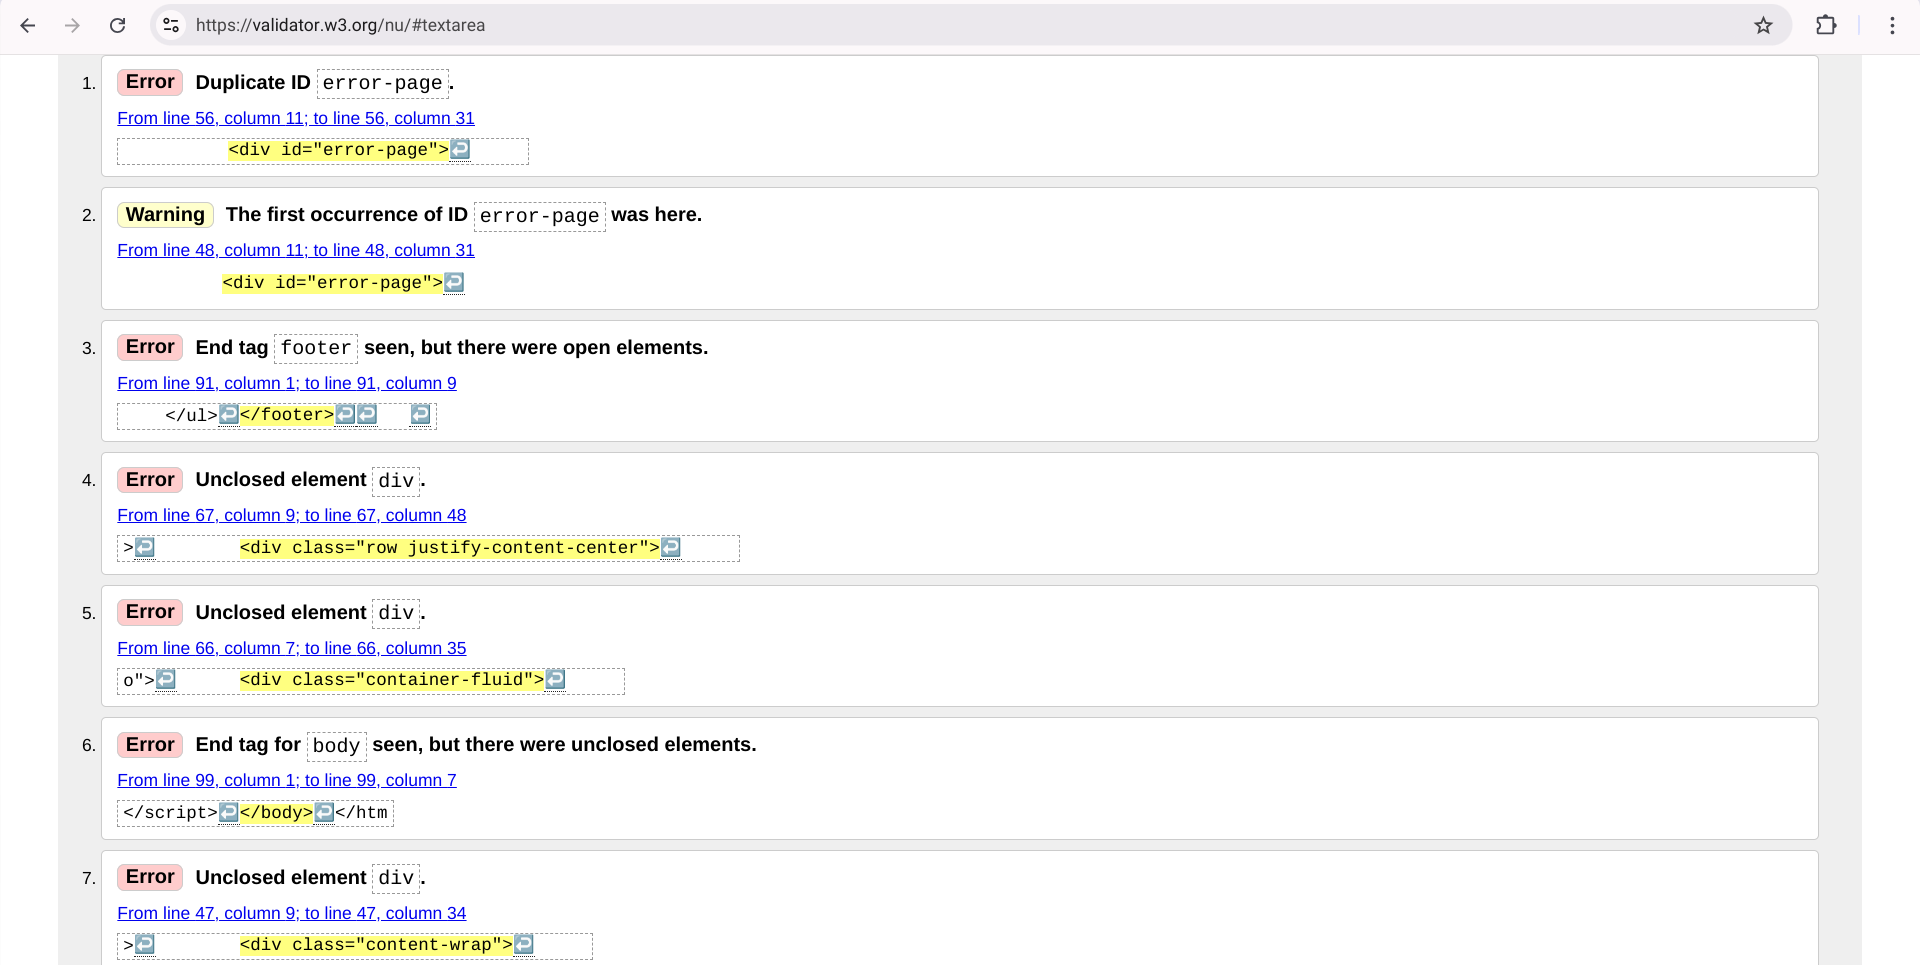
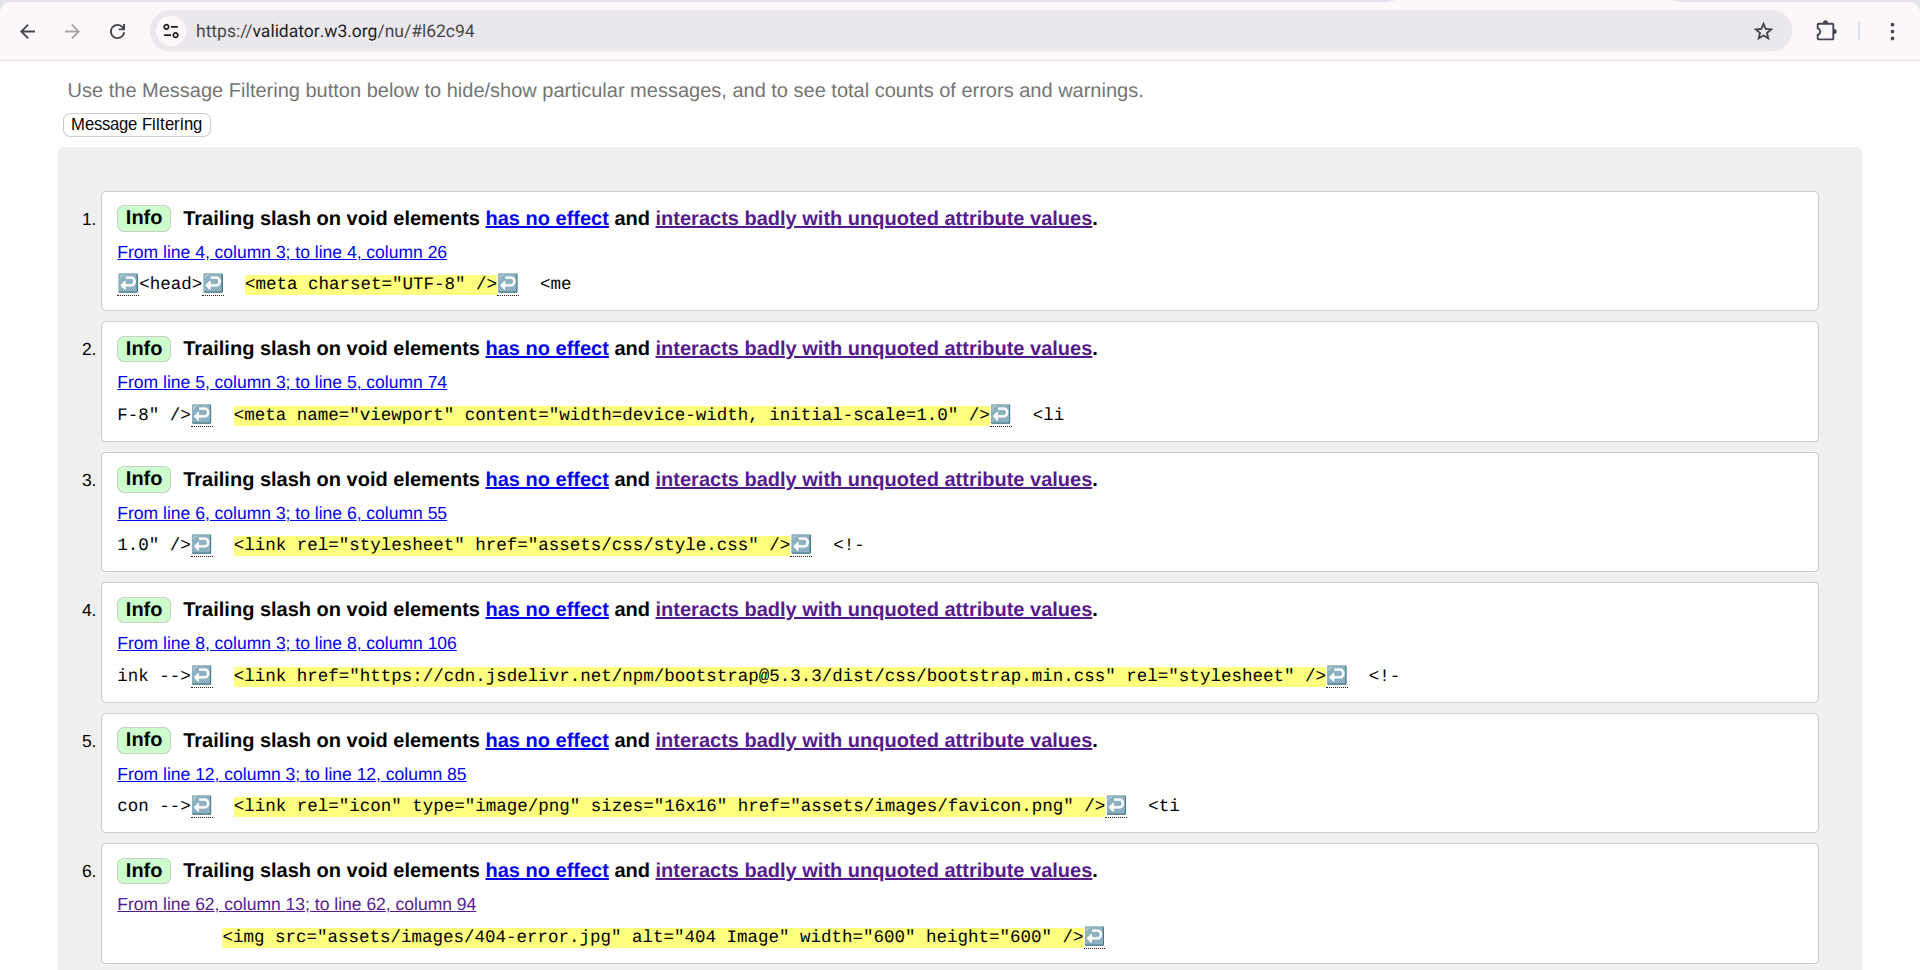
Add 404 page updated validation

Changed region(s): [[0.0312, 0.342, 0.9375, 0.9948], [0.0, 0.0, 0.5938, 0.3109], [0.9062, 0.0, 0.9688, 0.0311]]

diff --git a/404.html b/404.html
@@ -1,15 +1,15 @@
 <!DOCTYPE html>
 <html lang="en">
 <head>
-  <meta charset="UTF-8" />
-  <meta name="viewport" content="width=device-width, initial-scale=1.0" />
-  <link rel="stylesheet" href="assets/css/style.css" />
+  <meta charset="UTF-8">
+  <meta name="viewport" content="width=device-width, initial-scale=1.0">
+  <link rel="stylesheet" href="assets/css/style.css">
   <!-- Bootstrap link -->
-  <link href="https://cdn.jsdelivr.net/npm/bootstrap@5.3.3/dist/css/bootstrap.min.css" rel="stylesheet" />
+  <link href="https://cdn.jsdelivr.net/npm/bootstrap@5.3.3/dist/css/bootstrap.min.css" rel="stylesheet">
   <!-- FontAwesome link -->
   <script src="https://kit.fontawesome.com/e381d3b8ae.js" crossorigin="anonymous"></script>
   <!-- Favicon -->
-  <link rel="icon" type="image/png" sizes="16x16" href="assets/images/favicon.png" />
+  <link rel="icon" type="image/png" sizes="16x16" href="assets/images/favicon.png">
   <title>404 - Page Not Found</title>
 </head>
 
@@ -59,7 +59,7 @@
             <a href="https://kmarik.github.io/fact-quest/">Click Here To Go Back To Home</a>
           </div>
           <div>
-            <img src="assets/images/404-error.jpg" alt="404 Image" width="600" height="600" />
+            <img src="assets/images/404-error.jpg" alt="404 Image" width="600" height="600">
           </div>
         </div>
       </div>
